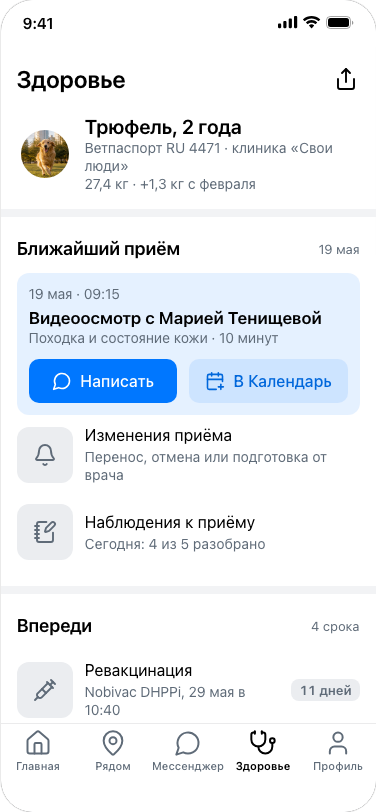
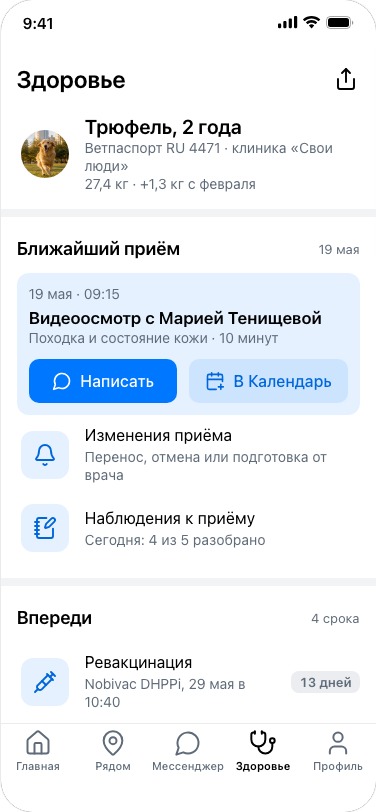
Tails: kernel leads instead of gray date boxes, revaccination countdown from the model

diff --git a/platform/concepts/tails/screens/vaccine.html b/platform/concepts/tails/screens/vaccine.html
@@ -1,1 +1,1 @@
-<div class="screen ui vk-light" id="scr-vaccine"><div class="ui-scroll is-root"><header class="ui-large"><h1>Здоровье</h1><button class="ui-icon-btn" data-toast="Ветпаспорт готов к отправке" aria-label="Отправить ветпаспорт"><svg><use href="#i-share"/></svg></button></header><div class="tl-vet-head"><span class="ui-thumb is-round tl-p1"></span><div><h2>Трюфель, 2 года</h2><p>Ветпаспорт RU 4471 · клиника «Свои люди»</p><p>27,4 кг · +1,3 кг с февраля</p></div></div><section class="ui-sec"><div class="ui-sec-head"><h2>Ближайший приём</h2><span class="ui-foot">19 мая</span></div><div class="tl-appt"><span class="tl-appt-when">19 мая · 09:15</span><strong>Видеоосмотр с Марией Тенищевой</strong><span>Походка и состояние кожи · 10 минут</span><div class="ui-actions is-row"><button class="ui-btn is-primary" data-go="chats"><svg><use href="#i-message-circle"/></svg><span>Написать</span></button><button class="ui-btn is-secondary" data-primary data-ask="calendar|vaccine|vaccine"><svg><use href="#i-calendar-plus"/></svg><span>В Календарь</span></button></div></div><p class="perm-hidden ui-note is-ok" data-show-granted="calendar"><svg><use href="#i-circle-check"/></svg><span>Приём в Календаре · 19 мая</span></p><div class="perm-hidden" data-show-denied="calendar"><p class="ui-note"><svg><use href="#i-info"/></svg><span>Приём остаётся в ветпаспорте и напоминании приложения</span></p></div><div class="ui-list"><button class="ui-row" data-go="chats" aria-label="Изменения приёма"><span class="tl-date"><svg><use href="#i-bell"/></svg></span><span class="ui-row-text"><strong>Изменения приёма</strong><span>Перенос, отмена или подготовка от врача</span></span></button><button class="ui-row" data-go="vetnote" aria-label="Наблюдения к приёму"><span class="tl-date"><svg><use href="#i-notebook-pen"/></svg></span><span class="ui-row-text"><strong>Наблюдения к приёму</strong><span>Сегодня: 4 из 5 разобрано</span></span></button></div></section><section class="ui-sec"><div class="ui-sec-head"><h2>Впереди</h2><span class="ui-foot">4 срока</span></div><div class="ui-list"><div class="ui-row"><span class="tl-date"><svg><use href="#i-syringe"/></svg></span><span class="ui-row-text"><strong>Ревакцинация</strong><span>Nobivac DHPPi, 29 мая в 10:40</span></span><span class="tl-days">11 дней</span></div><div class="ui-row"><span class="tl-date"><svg><use href="#i-shield"/></svg></span><span class="ui-row-text"><strong>Обработка от клещей</strong><span>Bravecto кончился 14 мая</span></span><span class="tl-days is-late">−4 дня</span></div><div class="ui-row"><span class="tl-date"><svg><use href="#i-calendar"/></svg></span><span class="ui-row-text"><strong>Приём перенесли</strong><span>С 12 на 19 мая, врач была в отпуске</span></span><span class="tl-days">перенос</span></div><div class="ui-row"><span class="tl-date"><svg><use href="#i-circle-check"/></svg></span><span class="ui-row-text"><strong>Бешенство</strong><span>Сделано 6 марта · следующее в 2027</span></span><span class="tl-days">готово</span></div></div></section><section class="ui-sec"><div class="ui-sec-head"><h2>Клиника и врач</h2></div><div class="ui-list"><div class="ui-row"><span class="ui-lead is-round">МТ</span><span class="ui-row-text"><strong>Мария Тенищева</strong><span>Ведёт Трюфеля с восьми месяцев · каб. 3</span></span></div><div class="ui-row"><span class="tl-date"><svg><use href="#i-map-pin"/></svg></span><span class="ui-row-text"><strong>Большой проспект П. С., 74</strong><span>От парка 12 минут пешком</span></span></div><div class="ui-row"><span class="tl-date"><svg><use href="#i-id-card"/></svg></span><span class="ui-row-text"><strong>Чип 643094100128756</strong><span>AnimalID с 4 апреля 2024</span></span></div></div></section></div><nav class="ui-tabs tabbar" aria-label="Основная навигация"><div class="ui-tabrow"><button class="ui-tab tab" data-go="home"><svg><use href="#i-house"/></svg><span>Главная</span></button><button class="ui-tab tab" data-go="nearby"><svg><use href="#i-map-pin"/></svg><span>Рядом</span></button><button class="ui-tab tab" data-go="chats"><svg><use href="#i-message-circle"/></svg><span>Мессенджер</span></button><button class="ui-tab tab is-on" data-go="vaccine"><svg><use href="#i-stethoscope"/></svg><span>Здоровье</span></button><button class="ui-tab tab" data-go="profile"><svg><use href="#i-user"/></svg><span>Профиль</span></button></div></nav><div class="home-ind"></div></div>
+<div class="screen ui vk-light" id="scr-vaccine"><div class="ui-scroll is-root"><header class="ui-large"><h1>Здоровье</h1><button class="ui-icon-btn" data-toast="Ветпаспорт готов к отправке" aria-label="Отправить ветпаспорт"><svg><use href="#i-share"/></svg></button></header><div class="tl-vet-head"><span class="ui-thumb is-round tl-p1"></span><div><h2>Трюфель, 2 года</h2><p>Ветпаспорт RU 4471 · клиника «Свои люди»</p><p>27,4 кг · +1,3 кг с февраля</p></div></div><section class="ui-sec"><div class="ui-sec-head"><h2>Ближайший приём</h2><span class="ui-foot">19 мая</span></div><div class="tl-appt"><span class="tl-appt-when">19 мая · 09:15</span><strong>Видеоосмотр с Марией Тенищевой</strong><span>Походка и состояние кожи · 10 минут</span><div class="ui-actions is-row"><button class="ui-btn is-primary" data-go="chats"><svg><use href="#i-message-circle"/></svg><span>Написать</span></button><button class="ui-btn is-secondary" data-primary data-ask="calendar|vaccine|vaccine"><svg><use href="#i-calendar-plus"/></svg><span>В Календарь</span></button></div></div><p class="perm-hidden ui-note is-ok" data-show-granted="calendar"><svg><use href="#i-circle-check"/></svg><span>Приём в Календаре · 19 мая</span></p><div class="perm-hidden" data-show-denied="calendar"><p class="ui-note"><svg><use href="#i-info"/></svg><span>Приём остаётся в ветпаспорте и напоминании приложения</span></p></div><div class="ui-list"><button class="ui-row" data-go="chats" aria-label="Изменения приёма"><span class="ui-lead"><svg><use href="#i-bell"/></svg></span><span class="ui-row-text"><strong>Изменения приёма</strong><span>Перенос, отмена или подготовка от врача</span></span></button><button class="ui-row" data-go="vetnote" aria-label="Наблюдения к приёму"><span class="ui-lead"><svg><use href="#i-notebook-pen"/></svg></span><span class="ui-row-text"><strong>Наблюдения к приёму</strong><span>Сегодня: 4 из 5 разобрано</span></span></button></div></section><section class="ui-sec"><div class="ui-sec-head"><h2>Впереди</h2><span class="ui-foot">4 срока</span></div><div class="ui-list"><div class="ui-row"><span class="ui-lead"><svg><use href="#i-syringe"/></svg></span><span class="ui-row-text"><strong>Ревакцинация</strong><span>Nobivac DHPPi, 29 мая в 10:40</span></span><span class="tl-days">13 дней</span></div><div class="ui-row"><span class="ui-lead"><svg><use href="#i-shield"/></svg></span><span class="ui-row-text"><strong>Обработка от клещей</strong><span>Bravecto кончился 14 мая</span></span><span class="tl-days is-late">−4 дня</span></div><div class="ui-row"><span class="ui-lead"><svg><use href="#i-calendar"/></svg></span><span class="ui-row-text"><strong>Приём перенесли</strong><span>С 12 на 19 мая, врач была в отпуске</span></span><span class="tl-days">перенос</span></div><div class="ui-row"><span class="ui-lead"><svg><use href="#i-circle-check"/></svg></span><span class="ui-row-text"><strong>Бешенство</strong><span>Сделано 6 марта · следующее в 2027</span></span><span class="tl-days">готово</span></div></div></section><section class="ui-sec"><div class="ui-sec-head"><h2>Клиника и врач</h2></div><div class="ui-list"><div class="ui-row"><span class="ui-lead is-round">МТ</span><span class="ui-row-text"><strong>Мария Тенищева</strong><span>Ведёт Трюфеля с восьми месяцев · каб. 3</span></span></div><div class="ui-row"><span class="ui-lead"><svg><use href="#i-map-pin"/></svg></span><span class="ui-row-text"><strong>Большой проспект П. С., 74</strong><span>От парка 12 минут пешком</span></span></div><div class="ui-row"><span class="ui-lead"><svg><use href="#i-id-card"/></svg></span><span class="ui-row-text"><strong>Чип 643094100128756</strong><span>AnimalID с 4 апреля 2024</span></span></div></div></section></div><nav class="ui-tabs tabbar" aria-label="Основная навигация"><div class="ui-tabrow"><button class="ui-tab tab" data-go="home"><svg><use href="#i-house"/></svg><span>Главная</span></button><button class="ui-tab tab" data-go="nearby"><svg><use href="#i-map-pin"/></svg><span>Рядом</span></button><button class="ui-tab tab" data-go="chats"><svg><use href="#i-message-circle"/></svg><span>Мессенджер</span></button><button class="ui-tab tab is-on" data-go="vaccine"><svg><use href="#i-stethoscope"/></svg><span>Здоровье</span></button><button class="ui-tab tab" data-go="profile"><svg><use href="#i-user"/></svg><span>Профиль</span></button></div></nav><div class="home-ind"></div></div>

diff --git a/platform/concepts/tails/screens/vetnote.html b/platform/concepts/tails/screens/vetnote.html
@@ -1,1 +1,1 @@
-<div class="screen ui vk-light" id="scr-vetnote"><header class="ui-nav"><button class="ui-icon-btn" data-back aria-label="Назад"><svg><use href="#i-chevron-left"/></svg></button><strong>Наблюдение</strong><span></span></header><div class="ui-scroll"><div class="tl-note-head"><h2>Трюфель, сегодня в 19:12</h2><p>Прогулка в Лопухинском саду · разобрано 4 из 5</p><div class="tl-wave">0:41<i></i>2,1 МБ</div></div><p class="perm-hidden ui-note is-ok" data-show-granted="mic"><svg><use href="#i-circle-check"/></svg><span>Наблюдение записано · 0:12</span></p><div class="perm-hidden" data-show-denied="mic"><p class="ui-note"><svg><use href="#i-info"/></svg><span>Микрофон недоступен — запишите наблюдение текстом</span></p></div><div class="perm-hidden" data-show-denied="speech"><p class="ui-note"><svg><use href="#i-info"/></svg><span>Заметка остаётся звуком: её можно слушать, но не искать словом</span></p></div><section class="ui-sec"><div class="ui-sec-head"><h2>Наблюдения</h2></div><div class="ui-list"><button class="ui-row is-wrap" data-toast="Правка строки 0:04" aria-label="Хромает на левую заднюю после парка"><span class="tl-ts">0:04</span><span class="ui-row-text"><strong>Хромает на левую заднюю после парка</strong><span>Правлено вручную в 19:14</span></span></button><button class="ui-row is-wrap" data-toast="Правка строки 0:11" aria-label="Отказался от корма второй раз за неделю"><span class="tl-ts">0:11</span><span class="ui-row-text"><strong>Отказался от корма второй раз за неделю</strong><span>«За неделю» досказано после паузы</span></span></button><button class="ui-row is-wrap" data-toast="Правка строки 0:19" aria-label="Лапу лижет, а…"><span class="tl-ts is-gap">0:19</span><span class="ui-row-text"><strong>Лапу лижет, а…</strong><span>Слово под шумом трамвая не разобрано</span></span></button><button class="ui-row is-wrap" data-toast="Правка строки 0:26" aria-label="Между подушечками краснота с утра"><span class="tl-ts">0:26</span><span class="ui-row-text"><strong>Между подушечками краснота с утра</strong><span>«Подушечками» ушло в словарь карточки</span></span></button><button class="ui-row is-wrap" data-toast="Правка строки 0:35" aria-label="Воду пьёт как обычно, ночью не будил"><span class="tl-ts">0:35</span><span class="ui-row-text"><strong>Воду пьёт как обычно, ночью не будил</strong><span>Сказано тише, разобрано целиком</span></span></button></div></section><section class="ui-sec"><div class="ui-actions"><button class="ui-btn is-primary is-block" data-primary data-toast="Сохранено в карточку Трюфеля">Сохранить в карточку</button><button class="ui-btn is-secondary is-block" data-ask="mic|vetnote|vetnote"><svg><use href="#i-mic"/></svg><span>Надиктовать наблюдение</span></button></div></section><section class="ui-sec"><div class="ui-sec-head"><h2>Прошлые заметки</h2><span class="ui-foot">23</span></div><div class="ui-list"><button class="ui-row" data-toast="Заметка 14 мая" aria-label="Чесал правое ухо весь вечер"><span class="tl-date">14.05</span><span class="ui-row-text"><strong>Чесал правое ухо весь вечер</strong><span>Прошло само на следующий день</span></span></button><button class="ui-row" data-toast="Заметка 6 мая" aria-label="Съел что-то у воды"><span class="tl-date">06.05</span><span class="ui-row-text"><strong>Съел что-то у воды</strong><span>Показали Марии, наблюдать трое суток</span></span></button><button class="ui-row" data-toast="Воспроизведение 0:22" aria-label="Заметка без текста"><span class="tl-date">27.04</span><span class="ui-row-text"><strong>Заметка без текста</strong><span>0:22 · ищется только по дате</span></span></button></div></section></div><div class="home-ind"></div></div>
+<div class="screen ui vk-light" id="scr-vetnote"><header class="ui-nav"><button class="ui-icon-btn" data-back aria-label="Назад"><svg><use href="#i-chevron-left"/></svg></button><strong>Наблюдение</strong><span></span></header><div class="ui-scroll"><div class="tl-note-head"><h2>Трюфель, сегодня в 19:12</h2><p>Прогулка в Лопухинском саду · разобрано 4 из 5</p><div class="tl-wave">0:41<i></i>2,1 МБ</div></div><p class="perm-hidden ui-note is-ok" data-show-granted="mic"><svg><use href="#i-circle-check"/></svg><span>Наблюдение записано · 0:12</span></p><div class="perm-hidden" data-show-denied="mic"><p class="ui-note"><svg><use href="#i-info"/></svg><span>Микрофон недоступен — запишите наблюдение текстом</span></p></div><div class="perm-hidden" data-show-denied="speech"><p class="ui-note"><svg><use href="#i-info"/></svg><span>Заметка остаётся звуком: её можно слушать, но не искать словом</span></p></div><section class="ui-sec"><div class="ui-sec-head"><h2>Наблюдения</h2></div><div class="ui-list"><button class="ui-row is-wrap" data-toast="Правка строки 0:04" aria-label="Хромает на левую заднюю после парка"><span class="tl-ts">0:04</span><span class="ui-row-text"><strong>Хромает на левую заднюю после парка</strong><span>Правлено вручную в 19:14</span></span></button><button class="ui-row is-wrap" data-toast="Правка строки 0:11" aria-label="Отказался от корма второй раз за неделю"><span class="tl-ts">0:11</span><span class="ui-row-text"><strong>Отказался от корма второй раз за неделю</strong><span>«За неделю» досказано после паузы</span></span></button><button class="ui-row is-wrap" data-toast="Правка строки 0:19" aria-label="Лапу лижет, а…"><span class="tl-ts is-gap">0:19</span><span class="ui-row-text"><strong>Лапу лижет, а…</strong><span>Слово под шумом трамвая не разобрано</span></span></button><button class="ui-row is-wrap" data-toast="Правка строки 0:26" aria-label="Между подушечками краснота с утра"><span class="tl-ts">0:26</span><span class="ui-row-text"><strong>Между подушечками краснота с утра</strong><span>«Подушечками» ушло в словарь карточки</span></span></button><button class="ui-row is-wrap" data-toast="Правка строки 0:35" aria-label="Воду пьёт как обычно, ночью не будил"><span class="tl-ts">0:35</span><span class="ui-row-text"><strong>Воду пьёт как обычно, ночью не будил</strong><span>Сказано тише, разобрано целиком</span></span></button></div></section><section class="ui-sec"><div class="ui-actions"><button class="ui-btn is-primary is-block" data-primary data-toast="Сохранено в карточку Трюфеля">Сохранить в карточку</button><button class="ui-btn is-secondary is-block" data-ask="mic|vetnote|vetnote"><svg><use href="#i-mic"/></svg><span>Надиктовать наблюдение</span></button></div></section><section class="ui-sec"><div class="ui-sec-head"><h2>Прошлые заметки</h2><span class="ui-foot">23</span></div><div class="ui-list"><button class="ui-row" data-toast="Заметка 14 мая" aria-label="Чесал правое ухо весь вечер"><span class="ui-lead">14.05</span><span class="ui-row-text"><strong>Чесал правое ухо весь вечер</strong><span>Прошло само на следующий день</span></span></button><button class="ui-row" data-toast="Заметка 6 мая" aria-label="Съел что-то у воды"><span class="ui-lead">06.05</span><span class="ui-row-text"><strong>Съел что-то у воды</strong><span>Показали Марии, наблюдать трое суток</span></span></button><button class="ui-row" data-toast="Воспроизведение 0:22" aria-label="Заметка без текста"><span class="ui-lead">27.04</span><span class="ui-row-text"><strong>Заметка без текста</strong><span>0:22 · ищется только по дате</span></span></button></div></section></div><div class="home-ind"></div></div>

diff --git a/platform/concepts/tails/screens/pet.html b/platform/concepts/tails/screens/pet.html
@@ -1,1 +1,1 @@
-<div class="screen ui vk-light" id="scr-pet"><div class="ui-scroll"><div class="tl-hero tl-p1"><div class="tl-hero-nav"><button class="ui-icon-btn is-glass" data-back aria-label="Назад"><span><svg><use href="#i-chevron-left"/></svg></span></button><button class="ui-icon-btn is-glass" data-toast="Скрыть · Пожаловаться" aria-label="Действия с профилем"><span><svg><use href="#i-ellipsis"/></svg></span></button></div></div><div class="tl-pet-head"><h1 class="ui-title">Трюфель, 2 года</h1><p class="ui-sub">Золотистый ретривер · Петроградская сторона</p><p>Дружелюбный, любит бегать, не боится больших собак</p><div class="ui-stats"><div class="ui-stat"><strong>628</strong><span>друзей</span></div><div class="ui-stat"><strong>142</strong><span>публикации</span></div><div class="ui-stat"><strong>18</strong><span>прогулок</span></div></div><div class="ui-actions"><button class="ui-btn is-primary is-block" data-primary data-go="vaccine"><svg><use href="#i-stethoscope"/></svg><span>Открыть здоровье</span></button><button class="ui-btn is-secondary is-block" data-ask="speech|vetnote|vetnote"><svg><use href="#i-mic"/></svg><span>Надиктовать заметку</span></button></div></div><section class="ui-sec"><div class="tl-match"><svg><use href="#i-badge-check"/></svg><div><strong>Подойдёте друг другу</strong>Барни и Трюфель выбирают активные прогулки и спокойно общаются с крупными собаками</div></div></section><section class="ui-sec"><div class="ui-sec-head"><h2>Здоровье</h2></div><div class="ui-list"><button class="ui-row" data-go="vaccine" aria-label="Прививки и обработки"><span class="tl-date"><svg><use href="#i-syringe"/></svg></span><span class="ui-row-text"><strong>Прививки и обработки</strong><span>Ревакцинация через 11 дней</span></span></button><button class="ui-row" data-go="vetnote" aria-label="Наблюдения владельца"><span class="tl-date"><svg><use href="#i-notebook-pen"/></svg></span><span class="ui-row-text"><strong>Наблюдения владельца</strong><span>Последнее 14 мая: чесал правое ухо</span></span></button></div></section><section class="ui-sec"><div class="ui-sec-head"><h2>Публикации</h2><span class="ui-foot">142</span></div><div class="tl-gallery"><button class="tl-p1" data-toast="Публикация 1" aria-label="Публикация 1"></button><button class="tl-p3" data-toast="Публикация 2" aria-label="Публикация 2"></button><button class="tl-p4" data-toast="Публикация 3" aria-label="Публикация 3"></button><button class="tl-p2" data-toast="Публикация 4" aria-label="Публикация 4"></button><button class="tl-p1" data-toast="Публикация 5" aria-label="Публикация 5"></button><button class="tl-p3" data-toast="Публикация 6" aria-label="Публикация 6"></button></div></section></div><div class="home-ind"></div></div>
+<div class="screen ui vk-light" id="scr-pet"><div class="ui-scroll"><div class="tl-hero tl-p1"><div class="tl-hero-nav"><button class="ui-icon-btn is-glass" data-back aria-label="Назад"><span><svg><use href="#i-chevron-left"/></svg></span></button><button class="ui-icon-btn is-glass" data-toast="Скрыть · Пожаловаться" aria-label="Действия с профилем"><span><svg><use href="#i-ellipsis"/></svg></span></button></div></div><div class="tl-pet-head"><h1 class="ui-title">Трюфель, 2 года</h1><p class="ui-sub">Золотистый ретривер · Петроградская сторона</p><p>Дружелюбный, любит бегать, не боится больших собак</p><div class="ui-stats"><div class="ui-stat"><strong>628</strong><span>друзей</span></div><div class="ui-stat"><strong>142</strong><span>публикации</span></div><div class="ui-stat"><strong>18</strong><span>прогулок</span></div></div><div class="ui-actions"><button class="ui-btn is-primary is-block" data-primary data-go="vaccine"><svg><use href="#i-stethoscope"/></svg><span>Открыть здоровье</span></button><button class="ui-btn is-secondary is-block" data-ask="speech|vetnote|vetnote"><svg><use href="#i-mic"/></svg><span>Надиктовать заметку</span></button></div></div><section class="ui-sec"><div class="tl-match"><svg><use href="#i-badge-check"/></svg><div><strong>Подойдёте друг другу</strong>Барни и Трюфель выбирают активные прогулки и спокойно общаются с крупными собаками</div></div></section><section class="ui-sec"><div class="ui-sec-head"><h2>Здоровье</h2></div><div class="ui-list"><button class="ui-row" data-go="vaccine" aria-label="Прививки и обработки"><span class="ui-lead"><svg><use href="#i-syringe"/></svg></span><span class="ui-row-text"><strong>Прививки и обработки</strong><span>Ревакцинация через 13 дней</span></span></button><button class="ui-row" data-go="vetnote" aria-label="Наблюдения владельца"><span class="ui-lead"><svg><use href="#i-notebook-pen"/></svg></span><span class="ui-row-text"><strong>Наблюдения владельца</strong><span>Последнее 14 мая: чесал правое ухо</span></span></button></div></section><section class="ui-sec"><div class="ui-sec-head"><h2>Публикации</h2><span class="ui-foot">142</span></div><div class="tl-gallery"><button class="tl-p1" data-toast="Публикация 1" aria-label="Публикация 1"></button><button class="tl-p3" data-toast="Публикация 2" aria-label="Публикация 2"></button><button class="tl-p4" data-toast="Публикация 3" aria-label="Публикация 3"></button><button class="tl-p2" data-toast="Публикация 4" aria-label="Публикация 4"></button><button class="tl-p1" data-toast="Публикация 5" aria-label="Публикация 5"></button><button class="tl-p3" data-toast="Публикация 6" aria-label="Публикация 6"></button></div></section></div><div class="home-ind"></div></div>

diff --git a/platform/concepts/tails/screens/netqr.html b/platform/concepts/tails/screens/netqr.html
@@ -1,1 +1,1 @@
-<div class="screen ui vk-light" id="scr-netqr"><header class="ui-nav"><button class="ui-icon-btn" data-back aria-label="Закрыть"><svg><use href="#i-x"/></svg></button><strong>Сеть площадки</strong><span></span></header><div class="ui-scroll"><section class="ui-sec"><div class="tl-qr"><span class="tl-qr-code"><svg><use href="#i-qr-code"/></svg></span><div><strong>Lopuhinka-Dogpark-Guest</strong><span>Код с калитки Лопухинского · считан в 18:22</span><span>WPA2 · пароль живёт до 02:22</span></div></div><div class="ui-actions tl-qr-actions"><button class="ui-btn is-primary is-block" data-primary data-ask="hotspot|netqr|netqr"><svg><use href="#i-wifi"/></svg><span>Подключиться</span></button></div><p class="perm-hidden ui-note is-ok" data-show-granted="hotspot"><svg><use href="#i-circle-check"/></svg><span>Вы в сети площадки</span></p><div class="perm-hidden" data-show-denied="hotspot"><p class="ui-note"><svg><use href="#i-info"/></svg><span>Сеть выбирается вручную в Настройках: Lopuhinka-Dogpark-Guest</span></p></div></section><section class="ui-sec"><div class="ui-sec-head"><h2>Сейчас</h2></div><div class="ui-list"><div class="ui-row"><span class="tl-date"><svg><use href="#i-wifi"/></svg></span><span class="ui-row-text"><strong>Вы в этой сети</strong><span>С 18:24, держится 9 минут</span></span></div><button class="ui-row" data-go="walk" aria-label="Вернуться к отметке"><span class="tl-date"><svg><use href="#i-map-pin"/></svg></span><span class="ui-row-text"><strong>Вернуться к отметке</strong><span>Отметились 6 из 9, старт в 18:40</span></span></button><div class="ui-row"><span class="tl-date"><svg><use href="#i-wifi-off"/></svg></span><span class="ui-row-text"><strong>В 18:19 пароль не подошёл</strong><span>Наклейка от 6 мая, сеть просит код от 15-го</span></span></div></div></section><section class="ui-sec"><div class="ui-sec-head"><h2>Сети площадок</h2></div><div class="ui-list"><div class="ui-row"><span class="tl-date"><svg><use href="#i-wifi"/></svg></span><span class="ui-row-text"><strong>Лопухинский сад</strong><span>У дальних ворот сигнал пропадает</span></span></div><div class="ui-row"><span class="tl-date"><svg><use href="#i-wifi-off"/></svg></span><span class="ui-row-text"><strong>Площадка на Ждановской</strong><span>Не видно отсюда</span></span></div><div class="ui-row"><span class="tl-date"><svg><use href="#i-wifi-off"/></svg></span><span class="ui-row-text"><strong>Вольер у стадиона</strong><span>Код сменили 11 мая</span></span></div></div></section></div><div class="home-ind"></div></div>
+<div class="screen ui vk-light" id="scr-netqr"><header class="ui-nav"><button class="ui-icon-btn" data-back aria-label="Закрыть"><svg><use href="#i-x"/></svg></button><strong>Сеть площадки</strong><span></span></header><div class="ui-scroll"><section class="ui-sec"><div class="tl-qr"><span class="tl-qr-code"><svg><use href="#i-qr-code"/></svg></span><div><strong>Lopuhinka-Dogpark-Guest</strong><span>Код с калитки Лопухинского · считан в 18:22</span><span>WPA2 · пароль живёт до 02:22</span></div></div><div class="ui-actions tl-qr-actions"><button class="ui-btn is-primary is-block" data-primary data-ask="hotspot|netqr|netqr"><svg><use href="#i-wifi"/></svg><span>Подключиться</span></button></div><p class="perm-hidden ui-note is-ok" data-show-granted="hotspot"><svg><use href="#i-circle-check"/></svg><span>Вы в сети площадки</span></p><div class="perm-hidden" data-show-denied="hotspot"><p class="ui-note"><svg><use href="#i-info"/></svg><span>Сеть выбирается вручную в Настройках: Lopuhinka-Dogpark-Guest</span></p></div></section><section class="ui-sec"><div class="ui-sec-head"><h2>Сейчас</h2></div><div class="ui-list"><div class="ui-row"><span class="ui-lead"><svg><use href="#i-wifi"/></svg></span><span class="ui-row-text"><strong>Вы в этой сети</strong><span>С 18:24, держится 9 минут</span></span></div><button class="ui-row" data-go="walk" aria-label="Вернуться к отметке"><span class="ui-lead"><svg><use href="#i-map-pin"/></svg></span><span class="ui-row-text"><strong>Вернуться к отметке</strong><span>Отметились 6 из 9, старт в 18:40</span></span></button><div class="ui-row"><span class="ui-lead"><svg><use href="#i-wifi-off"/></svg></span><span class="ui-row-text"><strong>В 18:19 пароль не подошёл</strong><span>Наклейка от 6 мая, сеть просит код от 15-го</span></span></div></div></section><section class="ui-sec"><div class="ui-sec-head"><h2>Сети площадок</h2></div><div class="ui-list"><div class="ui-row"><span class="ui-lead"><svg><use href="#i-wifi"/></svg></span><span class="ui-row-text"><strong>Лопухинский сад</strong><span>У дальних ворот сигнал пропадает</span></span></div><div class="ui-row"><span class="ui-lead"><svg><use href="#i-wifi-off"/></svg></span><span class="ui-row-text"><strong>Площадка на Ждановской</strong><span>Не видно отсюда</span></span></div><div class="ui-row"><span class="ui-lead"><svg><use href="#i-wifi-off"/></svg></span><span class="ui-row-text"><strong>Вольер у стадиона</strong><span>Код сменили 11 мая</span></span></div></div></section></div><div class="home-ind"></div></div>

diff --git a/platform/concepts/tails/styles.css b/platform/concepts/tails/styles.css
@@ -94,7 +94,6 @@
 .tl-appt .ui-actions { padding:12px 0 0; }
 .tl-days { min-width:56px; padding:3px 8px; border-radius:8px; background:var(--ui-card-2); font:600 13px/16px var(--ui-face); color:var(--ui-text-2); text-align:center; font-variant-numeric:tabular-nums; }
 .tl-days.is-late { background:rgba(230,70,70,.12); color:#c42b2b; }
-.tl-date { width:56px; height:56px; flex:none; display:grid; place-items:center; border-radius:12px; background:var(--ui-card-2); font:600 14px/18px var(--ui-face); color:var(--ui-text-2); font-variant-numeric:tabular-nums; }
 
 /* Расшифровка наблюдения */
 .tl-note-head { display:flex; flex-direction:column; gap:4px; padding:4px 16px 16px; background:var(--ui-card); }

diff --git a/platform/concepts/tails/docs/03-design-system.md b/platform/concepts/tails/docs/03-design-system.md
@@ -31,7 +31,7 @@
 ## Компоненты ядра
 
 <!-- @generated:kernel-components -->
-Экраны собраны из компонентов `kernel/components.mjs`: `row` ×53, `section` ×46, `cell` ×33, `button` ×21, `list` ×19, `denied` ×15, `nav` ×14, `iconButton` ×14, `group` ×13, `actions` ×9, `granted` ×8, `leadIcon` ×7, `bubble` ×6, `dialog` ×5, `tabBar` ×5, `largeTitle` ×4, `foot` ×4, `search` ×3, `textButton` ×3, `post` ×3, `progress` ×2, `times` ×2, `day` ×2, `stats` ×2, `callView` ×1, `chatNav` ×1, `chat` ×1, `voice` ×1, `composer` ×1, `top` ×1, `wordmark` ×1, `stories` ×1.
+Экраны собраны из компонентов `kernel/components.mjs`: `row` ×53, `section` ×46, `cell` ×33, `leadIcon` ×26, `button` ×21, `list` ×19, `denied` ×15, `nav` ×14, `iconButton` ×14, `group` ×13, `actions` ×9, `granted` ×8, `bubble` ×6, `dialog` ×5, `tabBar` ×5, `largeTitle` ×4, `foot` ×4, `search` ×3, `textButton` ×3, `post` ×3, `progress` ×2, `times` ×2, `day` ×2, `stats` ×2, `callView` ×1, `chatNav` ×1, `chat` ×1, `voice` ×1, `composer` ×1, `top` ×1, `wordmark` ×1, `stories` ×1.
 <!-- @end -->
 
 ## Свои компоненты
@@ -49,7 +49,7 @@
 | Профиль пользователя | `.tl-me` `.tl-me-ava` `.tl-me-block` |
 | Новая запись | `.tl-composer` `.tl-composer-who` `.tl-composer-field` `.tl-attach-row` `.tl-attach-btn` |
 | Камера и выбор фото — системные поверхности | `.tl-camera` `.tl-camera-view` `.tl-camera-shade` `.tl-shutter` `.tl-picker` |
-| Ветпаспорт | `.tl-vet-head` `.tl-appt` `.tl-appt-when` `.tl-days` `.tl-date` |
+| Ветпаспорт | `.tl-vet-head` `.tl-appt` `.tl-appt-when` `.tl-days` |
 | Расшифровка наблюдения | `.tl-note-head` `.tl-wave` `.tl-ts` |
 | Курс | `.tl-course-cover` `.tl-course-copy` `.tl-player` `.tl-controls` |
 | QR сети площадки | `.tl-qr` `.tl-qr-code` |
